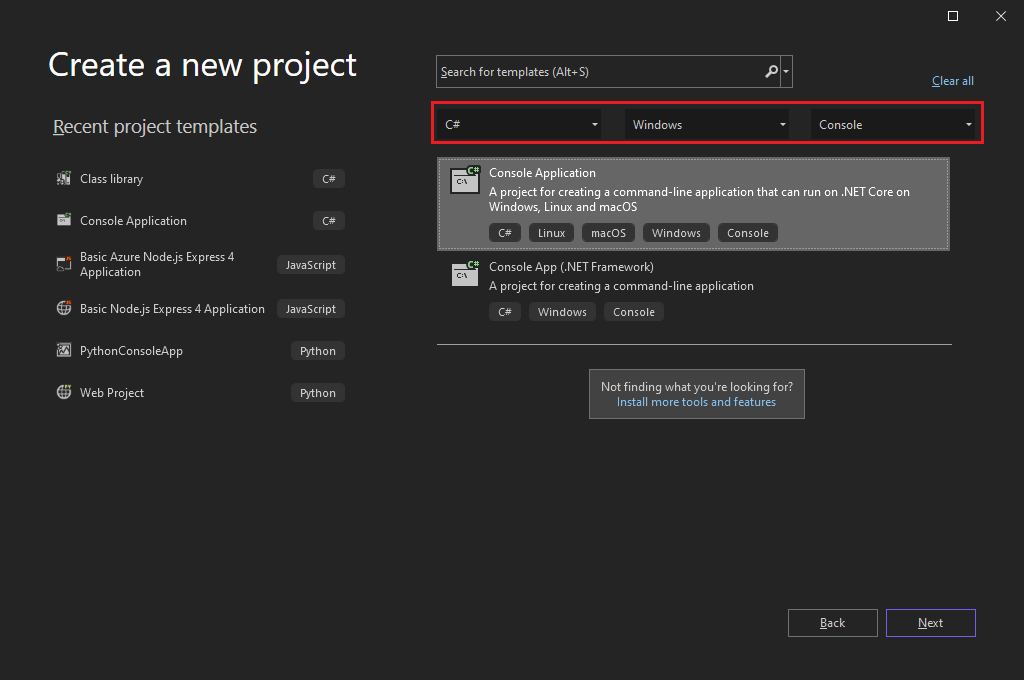
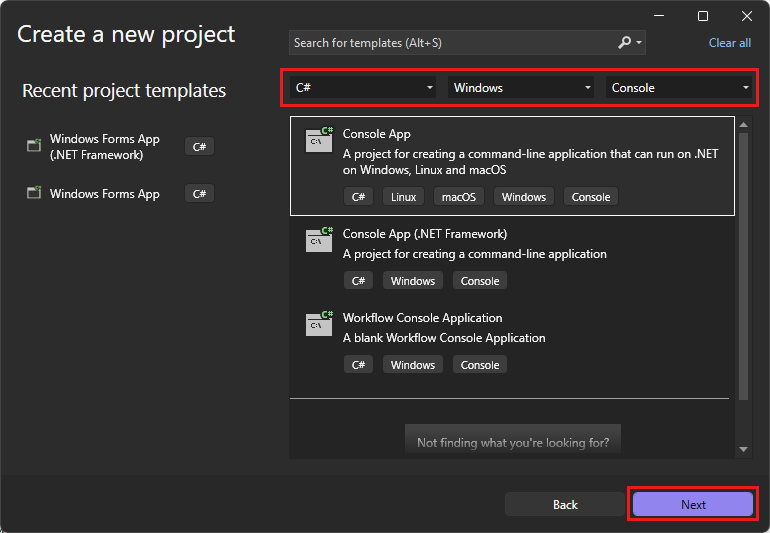
Freshness.

diff --git a/docs/get-started/includes/ide-overview.md b/docs/get-started/includes/ide-overview.md
@@ -1,5 +1,5 @@
 ---
-ms.date: 11/07/2025
+ms.date: 02/18/2026
 ms.subservice: general-ide
 author: anandmeg
 ms.author: meghaanand
@@ -9,12 +9,12 @@ ms.custom:
   - vs-get-started
   - sfi-image-nochange
 ---
-An *integrated development environment* (IDE) is a feature-rich program that supports many aspects of software development. The Visual Studio IDE is a creative launching pad that you can use to edit, debug, and build code, and then publish an app. Over and above the standard editor and debugger that most IDEs provide, Visual Studio includes compilers, code completion tools, graphical designers, and many more features to enhance the software development process.
+An *integrated development environment* (IDE) is a feature-rich program that supports many aspects of software development. The Visual Studio IDE is a creative launching pad that you can use to edit, debug, and build code, and then publish an app. Visual Studio also includes compilers, code completion tools, graphical designers, and many more features to enhance the software development process.
 
 
 ::: moniker range=">=vs-2022"
 
-[![Screenshot showing the Visual Studio 2022 IDE, with callouts indicating the location of key features and functionality.](../media/vs-2022/ide-overview.png)](../media/vs-2022/ide-overview.png#lightbox)
+:::image type="content" source="../media/vs-2022/ide-overview.png" alt-text="Screenshot showing the Visual Studio 2022 IDE, with callouts indicating the location of key features and functionality." lightbox="../media/vs-2022/ide-overview.png":::
 
 ::: moniker-end
 
@@ -22,7 +22,7 @@ The preceding image shows Visual Studio with an open project that shows key wind
 
 - In [Solution Explorer](../../ide/use-solution-explorer.md), at upper right, you can view, navigate, and manage your code files. **Solution Explorer** can help organize your code by grouping the files into [solutions and projects](../../ide/solutions-and-projects-in-visual-studio.md).
 
-- The central [editor window](../../ide/writing-code-in-the-code-and-text-editor.md), where you'll probably spend most of your time, displays file contents. In the editor window, you can edit code or design a user interface such as a window with buttons and text boxes.
+- The central [editor window](../../ide/writing-code-in-the-code-and-text-editor.md), where you probably spend most of your time, displays file contents. In the editor window, you can edit code or design a user interface such as a window with buttons and text boxes.
 
 - In [Git Changes](../../version-control/git-with-visual-studio.md) at lower right, you can track work items and share code with others by using version control technologies like [Git](https://git-scm.com/) and [GitHub](https://github.com/).
 
@@ -30,27 +30,27 @@ The preceding image shows Visual Studio with an open project that shows key wind
 
 Visual Studio is available for Windows.
 
-There are three editions of Visual Studio: Community, Professional, and Enterprise. See [Compare Visual Studio editions](https://visualstudio.microsoft.com/vs/compare/) to learn about which features are supported in each edition.
+There are three editions of Visual Studio: Community, Professional, and Enterprise. To learn about which features are supported in each edition, see [Compare Visual Studio editions](https://visualstudio.microsoft.com/vs/compare/).
 
 ## Popular productivity features
 
-Some popular features in Visual Studio that improve your productivity when developing software include:
+Some popular features in Visual Studio that improve your productivity when you develop software include:
 
 - Squiggles and [Quick Actions](../../ide/quick-actions.md)
 
-   Squiggles are wavy underlines that alert you to errors or potential problems in your code as you type. These visual clues help you fix problems immediately, without waiting to discover errors during build or runtime. If you hover over a squiggle, you see more information about the error. A lightbulb might also appear in the left margin showing *Quick Actions* you can take to fix the error.
+   *Squiggles* are wavy underlines that alert you to errors or potential problems in your code as you type. These visual clues help you fix problems immediately, without waiting to discover errors during build or runtime. If you hover over a squiggle, you see more information about the error. A light bulb might also appear in the left margin showing *Quick Actions* you can take to fix the error.
 
    ::: moniker range=">=vs-2022"
-   ![Screenshot showing squiggles in Visual Studio.](../media/vs-2022/squiggles-error.png)
+   :::image type="content" source="../media/vs-2022/squiggles-error.png" alt-text="Screenshot showing squiggles in Visual Studio.":::
    ::: moniker-end
 
 
 ::: moniker range=">=vs-2022"
 - Code Cleanup
 
-   With the click of a button, you can format your code and apply any code fixes suggested by your [code style settings](../../ide/reference/options-text-editor-csharp-formatting.md), [.editorconfig conventions](../../ide/create-portable-custom-editor-options.md), and [Roslyn analyzers](../../code-quality/roslyn-analyzers-overview.md). **Code Cleanup**, currently available for C# code only, helps you resolve issues in your code before it goes to code review.
+   Using Code Cleanup, you can format your code and apply any code fixes suggested by your [code style settings](../../ide/reference/options-text-editor-csharp-formatting.md), [.editorconfig conventions](../../ide/create-portable-custom-editor-options.md), and [Roslyn analyzers](../../code-quality/roslyn-analyzers-overview.md). **Code Cleanup**, currently available for C# code only, helps you resolve issues in your code before it goes to code review.
 
-   ![Screenshot showing the Code Cleanup icon and menu in Visual Studio.](../media/vs-2022/code-cleanup.png)
+   :::image type="content" source="../media/vs-2022/code-cleanup.png" alt-text="Screenshot showing the Code Cleanup icon and menu in Visual Studio.":::
    ::: moniker-end
 
 - [Refactoring](../../ide/refactoring-in-visual-studio.md)
@@ -58,7 +58,7 @@ Some popular features in Visual Studio that improve your productivity when devel
    Refactoring includes operations such as intelligent renaming of variables, extracting one or more lines of code into a new method, and changing the order of method parameters.
 
    ::: moniker range=">=vs-2022"
-   ![Screenshot that shows Refactoring in Visual Studio.](../media/vs-2022/refactoring-menu.png)
+   :::image type="content" source="../media/vs-2022/refactoring-menu.png" alt-text="Screenshot that shows Refactoring in Visual Studio.":::
    ::: moniker-end
 
 - [IntelliSense](../../ide/using-intellisense.md)
@@ -68,7 +68,7 @@ Some popular features in Visual Studio that improve your productivity when devel
    The following illustration shows how IntelliSense displays a member list for a type:
 
    ::: moniker range=">=vs-2022"
-   ![Screenshot that shows an IntelliSense member list.](../media/vs-2022/intellisense-list-members.png)
+   :::image type="content" source="../media/vs-2022/intellisense-list-members.png" alt-text="Screenshot that shows an IntelliSense member list.":::
    ::: moniker-end
 
    IntelliSense features vary by language. For more information, see [C# IntelliSense](../../ide/visual-csharp-intellisense.md), [Visual C++ IntelliSense](../../ide/visual-cpp-intellisense.md), [JavaScript IntelliSense](../../ide/javascript-intellisense.md), and [Visual Basic IntelliSense](../../ide/visual-basic-specific-intellisense.md).
@@ -77,12 +77,11 @@ Some popular features in Visual Studio that improve your productivity when devel
 
    Visual Studio menus, options, and properties can seem overwhelming at times. Visual Studio search, or **Ctrl**+**Q**, is a great way to rapidly find IDE features and code in one place.
 
-
    ::: moniker range=">=vs-2022"
 
-   ![Screenshot that shows the Quick Launch search box in Visual Studio.](../media/vs-2022/quick-launch-nuget.png)
+   :::image type="content" source="../media/vs-2022/quick-launch-nuget.png" alt-text="Screenshot that shows the Quick Launch search box in Visual Studio.":::
 
-    For information and productivity tips, see [How to use Visual Studio search](../../ide/visual-studio-search.md).
+    For information and productivity tips, see [Use Visual Studio search](../../ide/visual-studio-search.md).
 
    ::: moniker-end
 
@@ -92,10 +91,10 @@ Some popular features in Visual Studio that improve your productivity when devel
 
 - [Call Hierarchy](../../ide/reference/call-hierarchy.md)
 
-   The **Call Hierarchy** window shows the methods that call a selected method. This information can be useful when you're thinking about changing or removing the method, or when you're trying to track down a bug.
+   The **Call Hierarchy** window shows the methods that call a selected method. This information can be useful when you're changing or removing the method, or when you're trying to track down a bug.
 
    ::: moniker range=">=vs-2022"
-   ![Screenshot that shows the Call Hierarchy window.](../media/vs-2022/call-hierarchy-csharp-expanded.png)
+   :::image type="content" source="../media/vs-2022/call-hierarchy-csharp-expanded.png" alt-text="Screenshot that shows the Call Hierarchy window.":::
    ::: moniker-end
 
 - [CodeLens](../../ide/find-code-changes-and-other-history-with-codelens.md)
@@ -103,7 +102,7 @@ Some popular features in Visual Studio that improve your productivity when devel
    CodeLens helps you find code references, code changes, linked bugs, work items, code reviews, and unit tests, without leaving the editor.
 
    ::: moniker range=">=vs-2022"
-   ![Screenshot that shows CodeLens.](../media/vs-2022/codelens-overview.png)
+   :::image type="content" source="../media/vs-2022/codelens-overview.png" alt-text="Screenshot that shows CodeLens.":::
    ::: moniker-end
 
 - [Go To Definition](../../ide/go-to-and-peek-definition.md)
@@ -111,7 +110,7 @@ Some popular features in Visual Studio that improve your productivity when devel
    The **Go To Definition** feature takes you directly to the location of a function or type definition.
 
    ::: moniker range=">=vs-2022"
-   ![Screenshot that shows the Go to Definition menu item.](../media/vs-2022/go-to-definition-menu.png)
+   :::image type="content" source="../media/vs-2022/go-to-definition-menu.png" alt-text="Screenshot that shows the Go to Definition menu item.":::
    ::: moniker-end
 
 - [Peek Definition](../../ide/how-to-view-and-edit-code-by-using-peek-definition-alt-plus-f12.md)
@@ -119,7 +118,7 @@ Some popular features in Visual Studio that improve your productivity when devel
    The **Peek Definition** window shows a method or type definition without opening a separate file.
 
    ::: moniker range=">=vs-2022"
-   ![Screenshot showing a Peek Definition window.](../media/vs-2022/peek-definition.png)
+   :::image type="content" source="../media/vs-2022/peek-definition.png" alt-text="Screenshot showing a Peek Definition window.":::
    ::: moniker-end
 
 ::: moniker range=">=vs-2022"
@@ -128,14 +127,13 @@ Some popular features in Visual Studio that improve your productivity when devel
 
    Hot Reload enables you to edit your application's code files and apply the code changes immediately to the running application.
 
-   :::image type="content" source="../media/vs-2022/overview-hot-reload.png" alt-text="Screenshot of Hot Reload in Visual Studio 2022.":::
+   :::image type="content" source="../media/vs-2022/overview-hot-reload.png" alt-text="Screenshot of Hot Reload in Visual Studio 2022." lightbox="../media/vs-2022/overview-hot-reload.png":::
 
 ::: moniker-end
 
 ## Install Visual Studio
 
 In this section, you create a simple project to try out some of the things you can do with Visual Studio. You use [IntelliSense](../../ide/using-intellisense.md) as a coding aid, debug an app to see a variable value during app execution, and change the color theme.
-
 
 ::: moniker range=">=vs-2022"
 
@@ -157,21 +155,21 @@ Dive in and create a simple program.
 
 1. Choose **Create a new project**.
 
-   ![Screenshot of the Visual Studio start menu with Create a new project selected.](../media/vs-2022/create-new-project.png)
+   :::image type="content" source="../media/vs-2022/create-new-project.png" alt-text="Screenshot of the Visual Studio start menu with Create a new project selected.":::
 
    The **Create a new project** window opens and shows several project *templates*. A template contains the basic files and settings required for a given project type.
 
 1. To find a template, you can type or enter keywords in the search box. The list of available templates filters based on the keywords you enter. You can further filter the template results by choosing **C#** from the **All languages** dropdown list, **Windows** from the **All platforms** list, and **Console** from the **All project types** list.
 
-    Select the **Console Application** template, and then select **Next**.
+    Select the **Console App** template, and then select **Next**.
 
-   ![Screenshot of the Create a new project window with Console Application selected.](../media/vs-2022/start-window-create-new-project.png)
+   :::image type="content" source="../media/vs-2022/start-window-create-new-project.png" alt-text="Screenshot of the Create a new project window with Console Application selected.":::
 
-1. In the **Configure your new project** window, enter **HelloWorld** in the **Project name** box. Optionally, change the project directory location from the default location of *C:\\Users\\\<name>\\source\\repos*, and then select **Next**.
+1. In the **Configure your new project** window, enter *HelloWorld* in the **Project name** box. Optionally, change the project directory location from the default location of *C:\\Users\\\<name>\\source\\repos*, and then select **Next**.
 
-   ![Screenshot of the Configure your new project window with the project name HelloWorld entered.](../media/vs-2022/configure-new-project.png)
+   :::image type="content" source="../media/vs-2022/configure-new-project.png" alt-text="Screenshot of the Configure your new project window with the project name HelloWorld entered.":::
 
-1. In the **Additional information** window, verify that **.NET 8.0** appears in the **Target Framework** drop-down menu, and then select **Create**.
+1. In the **Additional information** window, verify that **.NET 10.0** appears in the **Framework** menu, and then select **Create**.
 
    :::image type="content" source="../media/vs-2022/create-project-additional-info.png" alt-text="Screenshot of the Additional information dialog showing .NET 8.0 selected as the target framework for the new project in Visual Studio." lightbox="../media/vs-2022/create-project-additional-info.png" border="false":::
 
@@ -179,27 +177,27 @@ Dive in and create a simple program.
 
    The project files appear on the right side of the Visual Studio IDE, in a window called the **Solution Explorer**. In the **Solution Explorer** window, select the **Program.cs** file. The C# code for your app opens in the central editor window, which takes up most of the space.
 
-   ![Screenshot that shows the Visual Studio IDE with the Program.cs code in the editor.](../media/vs-2022/overview-ide-console-app.png)
+   :::image type="content" source="../media/vs-2022/overview-ide-console-app.png" alt-text="Screenshot that shows the Visual Studio IDE with the Program.cs code in the editor.":::
 
    The code is automatically colorized to indicate different parts, such as keywords and types. Line numbers help you locate code.
 
    Small, vertical dashed lines in the code indicate which braces match one another. You can also choose small, boxed minus or plus signs to collapse or expand blocks of code. This code outlining feature lets you hide code you don't need to see, helping to minimize onscreen clutter.
 
-   ![Screenshot that shows the Visual Studio IDE with red boxes.](../media/vs-2022/overview-ide-console-app-red-boxes.png)
+   :::image type="content" source="../media/vs-2022/overview-ide-console-app-red-boxes.png" alt-text="Screenshot that shows the Visual Studio IDE with red boxes.":::
 
    Many other menus and tool windows are available.
 
 1. Start the app by choosing **Debug** > **Start Without Debugging** from the Visual Studio top menu. You can also press **Ctrl**+**F5**.
 
-   ![Screenshot that shows the Debug > Start without Debugging menu item.](../media/vs-2022/overview-start-without-debugging.png)
+   :::image type="content" source="../media/vs-2022/overview-start-without-debugging.png" alt-text="Screenshot that shows the Debug > Start without Debugging menu item.":::
 
    Visual Studio builds the app, and a console window opens with the message **Hello, World!**. You now have a running app!
 
-   ![Screenshot of the Debug Console window showing the output Hello, World! and Press any key to close this window.](../media/vs-2022/overview-console-window.png)
+   :::image type="content" source="../media/vs-2022/overview-console-window.png" alt-text="Screenshot of the Debug Console window showing the output Hello, World! and Press any key to close this window.":::
 
 1. To close the console window, press any key.
 
-1. Let's add some more code to the app. Add the following C# code before the line that says `Console.WriteLine("Hello World!");`:
+1. Add some more code to the app. Add the following C# code before the line that says `Console.WriteLine("Hello World!");`:
 
    ```csharp
    Console.WriteLine("\nWhat is your name?");
@@ -220,7 +218,7 @@ Dive in and create a simple program.
 
 1. Type your name in the console window and press **Enter**.
 
-   :::image type="content" source="../media/vs-2022/overview-console-input.png" alt-text="Screenshot of the Debug Console window showing the prompt for a name, the input, and the output Hello Georgette!." lightbox="../media/vs-2022/overview-console-input.png" border="false":::
+   :::image type="content" source="../media/vs-2022/overview-console-input.png" alt-text="Screenshot of the Debug Console window showing the prompt for a name, the input, and the output Hello Georgette!" lightbox="../media/vs-2022/overview-console-input.png" border="false":::
 
 1. Press any key to close the console window and stop the running program.
 
@@ -228,7 +226,7 @@ Dive in and create a simple program.
 
 ## Use refactoring and IntelliSense
 
-Let's look at a couple of the ways that [refactoring](../../ide/refactoring-in-visual-studio.md) and [IntelliSense](../../ide/using-intellisense.md) can help you code more efficiently.
+Here are a couple of the ways that [refactoring](../../ide/refactoring-in-visual-studio.md) and [IntelliSense](../../ide/using-intellisense.md) can help you code more efficiently.
 
 First, rename the `name` variable:
 
@@ -239,7 +237,7 @@ First, rename the `name` variable:
 1. Select the light bulb icon to show the available [Quick Actions](../../ide/quick-actions.md). Select **Rename 'name' to 'username'**.
 
    ::: moniker range=">=vs-2022"
-   ![Screenshot that shows the Rename action in Visual Studio.](../media/vs-2022/rename-quick-action.png)
+   :::image type="content" source="../media/vs-2022/rename-quick-action.png" alt-text="Screenshot that shows the Rename action in Visual Studio.":::
    ::: moniker-end
 
    The variable is renamed across the project, which in our case is only two places.
@@ -249,7 +247,7 @@ First, rename the `name` variable:
    A box displays the members of the <xref:System.DateTime> class. The description of the currently selected member also displays in a separate box.
 
    ::: moniker range=">=vs-2022"
-   ![Screenshot that shows IntelliSense list members in Visual Studio.](../media/vs-2022/intellisense-list-members.png)
+   :::image type="content" source="../media/vs-2022/intellisense-list-members.png" alt-text="Screenshot that shows IntelliSense list members in Visual Studio." lightbox="../media/vs-2022/intellisense-list-members.png":::
    ::: moniker-end
 
 1. Select the member named **Now**, which is a property of the class, by double-clicking it or pressing **Tab**. Complete the line of code by adding a semicolon to the end of the line: `DateTime now = DateTime.Now;`.
@@ -264,14 +262,14 @@ First, rename the `name` variable:
    ```
 
    > [!TIP]
-   > <xref:System.Console.Write%2A?displayProperty=nameWithType> is different from <xref:System.Console.WriteLine%2A?displayProperty=nameWithType> in that it doesn't add a line terminator after it prints. That means that the next piece of text that's sent to the output will print on the same line. You can hover over each of these methods in your code to see their descriptions.
+   > <xref:System.Console.Write%2A?displayProperty=nameWithType> is different from <xref:System.Console.WriteLine%2A?displayProperty=nameWithType>. It doesn't add a line terminator after it prints. The next piece of text that's sent to the output prints on the same line. You can hover over each of these methods in your code to see their descriptions.
 
 1. Next, use refactoring again to make the code a little more concise. Select the variable `now` in the line `DateTime now = DateTime.Now;`. A screwdriver icon appears in the margin on that line.
 
 1. Select the screwdriver icon to see available suggestions from Visual Studio. This case shows the [Inline temporary variable](../../ide/reference/inline-temporary-variable.md) refactoring to remove a line of code without changing the overall code behavior.
 
    ::: moniker range=">=vs-2022"
-   ![Screenshot showing the Inline temporary variable suggestion in Visual Studio.](../media/vs-2022/inline-temporary-variable-refactoring.png)
+   :::image type="content" source="../media/vs-2022/inline-temporary-variable-refactoring.png" alt-text="Screenshot showing the Inline temporary variable suggestion in Visual Studio.":::
    ::: moniker-end
 
 1. Select **Inline temporary variable** to refactor the code.
@@ -284,7 +282,7 @@ First, rename the `name` variable:
 
 ## Debug code
 
-When you write code, you should run it and test it for bugs. Visual Studio's debugging system lets you step through code one statement at a time and inspect variables as you go. You can set *breakpoints* that stop execution of the code at a particular line, and observe how the variable value changes as the code runs.
+When you write code, you should run it and test it for bugs. Visual Studio's debugging system lets you step through code a single statement at a time and inspect variables as you go. You can set *breakpoints* that stop execution of the code at a particular line, and observe how the variable value changes as the code runs.
 
 Set a breakpoint to see the value of the `username` variable while the program is running.
 
@@ -293,26 +291,26 @@ Set a breakpoint to see the value of the `username` variable while the program i
    A red circle appears in the gutter, and the line is highlighted.
 
    ::: moniker range=">=vs-2022"
-   ![Screenshot that shows a breakpoint on a line of code in Visual Studio.](../media/vs-2022/breakpoint.png)
+   :::image type="content" source="../media/vs-2022/breakpoint.png" alt-text="Screenshot that shows a breakpoint on a line of code in Visual Studio.":::
    ::: moniker-end
 
 1. Start debugging by selecting **Debug** > **Start Debugging** or pressing **F5**.
 
 1. When the console window appears and asks for your name, enter your name.
 
-   The focus returns to the Visual Studio code editor, and the line of code with the breakpoint is highlighted in yellow. The yellow highlight means that this line of code will execute next. The breakpoint makes the app pause execution at this line.
+   The focus returns to the code editor, and the line of code with the breakpoint is highlighted in yellow. The yellow highlight means that this line of code executes next. The breakpoint makes the app pause execution at this line.
 
 1. Hover your mouse over the `username` variable to see its value. You can also right-click on `username` and select **Add Watch** to add the variable to the **Watch** window, where you can also see its value.
 
    ::: moniker range=">=vs-2022"
-   ![Screenshot that shows a variable value during debugging in Visual Studio.](../media/vs-2022/debugging-variable-value.png)
+   :::image type="content" source="../media/vs-2022/debugging-variable-value.png" alt-text="Screenshot that shows a variable value during debugging in Visual Studio.":::
    ::: moniker-end
 
 1. Press **F5** again to finish running the app.
 
 ::: moniker range=">=vs-2022"
 
-Once the app is running, you can apply code changes to the running app by clicking the Hot Reload button.
+While the app is running, you can apply code changes to the running app by clicking the Hot Reload button.
 
 :::image type="content" source="../media/vs-2022/overview-hot-reload.png" alt-text="Screenshot of Hot Reload in Visual Studio 2022.":::
 
@@ -324,7 +322,6 @@ For more information about debugging in Visual Studio, see the [Debugger feature
 
 You can personalize the Visual Studio user interface, including changing the default color theme. To change the color theme:
 
-
 ::: moniker range="vs-2022"
 
 1. On the menu bar, choose **Tools** > **Options** to open the **Options** dialog.
@@ -333,7 +330,7 @@ You can personalize the Visual Studio user interface, including changing the def
 
    The color theme for the entire IDE changes accordingly. The following screenshot shows the Blue theme:
 
-   ![Screenshot that shows Visual Studio in Blue theme.](../media/vs-2022/blue-theme.png)
+   :::image type="content" source="../media/vs-2022/blue-theme.png" alt-text="Screenshot that shows Visual Studio in Blue theme." lightbox="../media/vs-2022/blue-theme.png":::
 
 ::: moniker-end
 
@@ -345,7 +342,7 @@ You can personalize the Visual Studio user interface, including changing the def
 
    The color theme for the entire IDE changes accordingly. The following screenshot shows the Cool Breeze theme:
 
-   :::image type="content" source="../media/visualstudio/cool-breeze-theme.png" border="false" alt-text="Screenshot that shows Visual Studio in Cool Breeze theme.":::
+   :::image type="content" source="../media/visualstudio/cool-breeze-theme.png" border="false" alt-text="Screenshot that shows Visual Studio in Cool Breeze theme." lightbox="../media/visualstudio/cool-breeze-theme.png":::
 
 ::: moniker-end
 

diff --git a/docs/get-started/csharp/visual-studio-ide.md b/docs/get-started/csharp/visual-studio-ide.md
@@ -1,7 +1,7 @@
 ---
 title: Overview for C# developers
 description: Explore how to work with the Visual Studio integrated development environment (IDE) to edit, debug, and build code, and then publish an app as a C# developer.
-ms.date: 01/31/2023
+ms.date: 02/18/2026
 ms.subservice: general-ide
 ms.custom: vs-acquisition
 ms.topic: overview
@@ -10,6 +10,8 @@ ms.author: meghaanand
 manager: mijacobs
 dev_langs:
 - CSharp
+
+#customer intent: As a C# developer, I want to understand how to use the Visual Studio IDE to create. debug, and run a simple program.
 ---
 # Welcome to the Visual Studio IDE | C\#
 
@@ -31,7 +33,7 @@ You can configure Visual Studio to use environment settings tailored to C# devel
 
 To learn about other ways you can personalize the IDE, see [Personalize Visual Studio](../../ide/personalizing-the-visual-studio-ide.md).
 
-## Next steps
+## Related content
 
 Explore Visual Studio further by following along with one of these introductory articles:
 
@@ -41,7 +43,7 @@ Explore Visual Studio further by following along with one of these introductory 
 > [!div class="nextstepaction"]
 > [Learn about projects and solutions](../tutorial-projects-solutions.md)
 
-## See also
+For more information:
 
 - Discover [more Visual Studio features](../../ide/advanced-feature-overview.md).
 - Visit [visualstudio.microsoft.com](https://visualstudio.microsoft.com/vs/).
